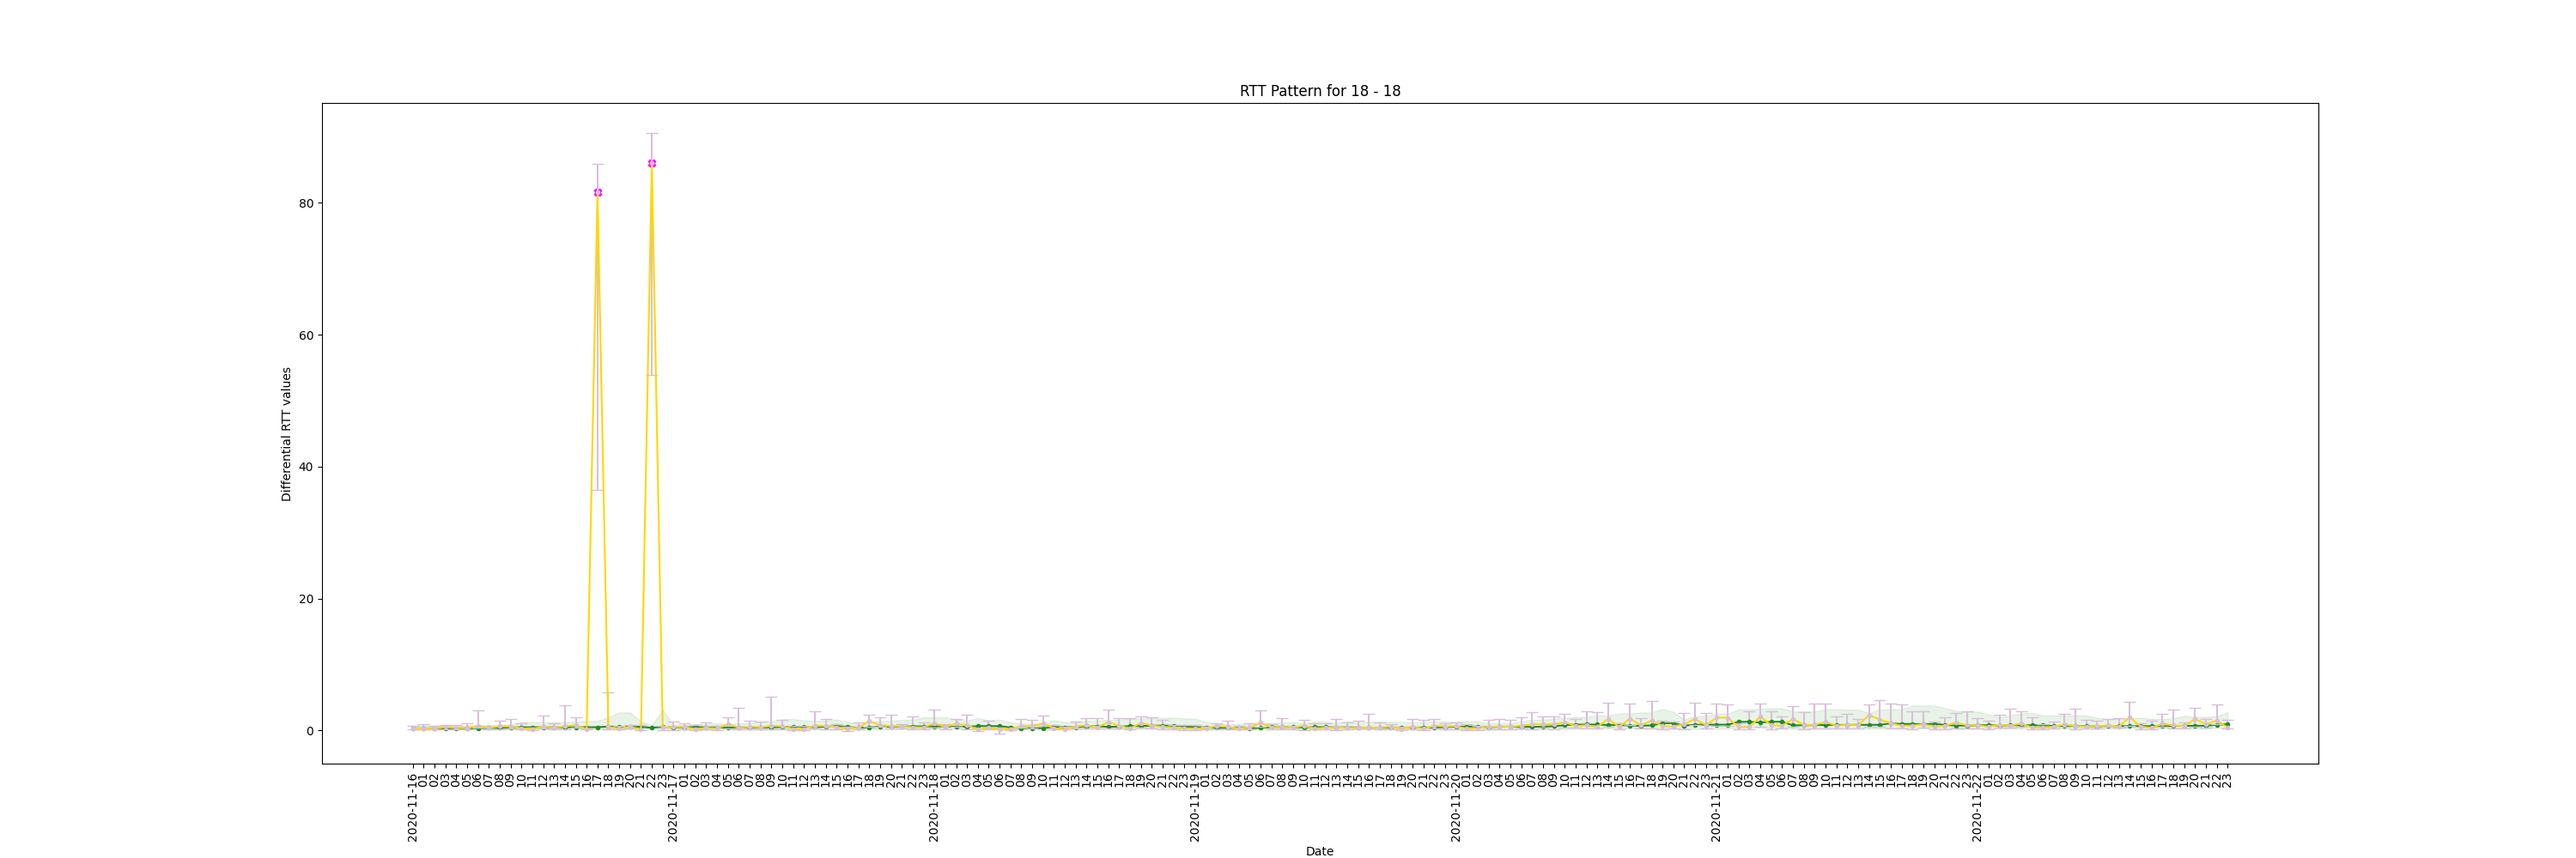
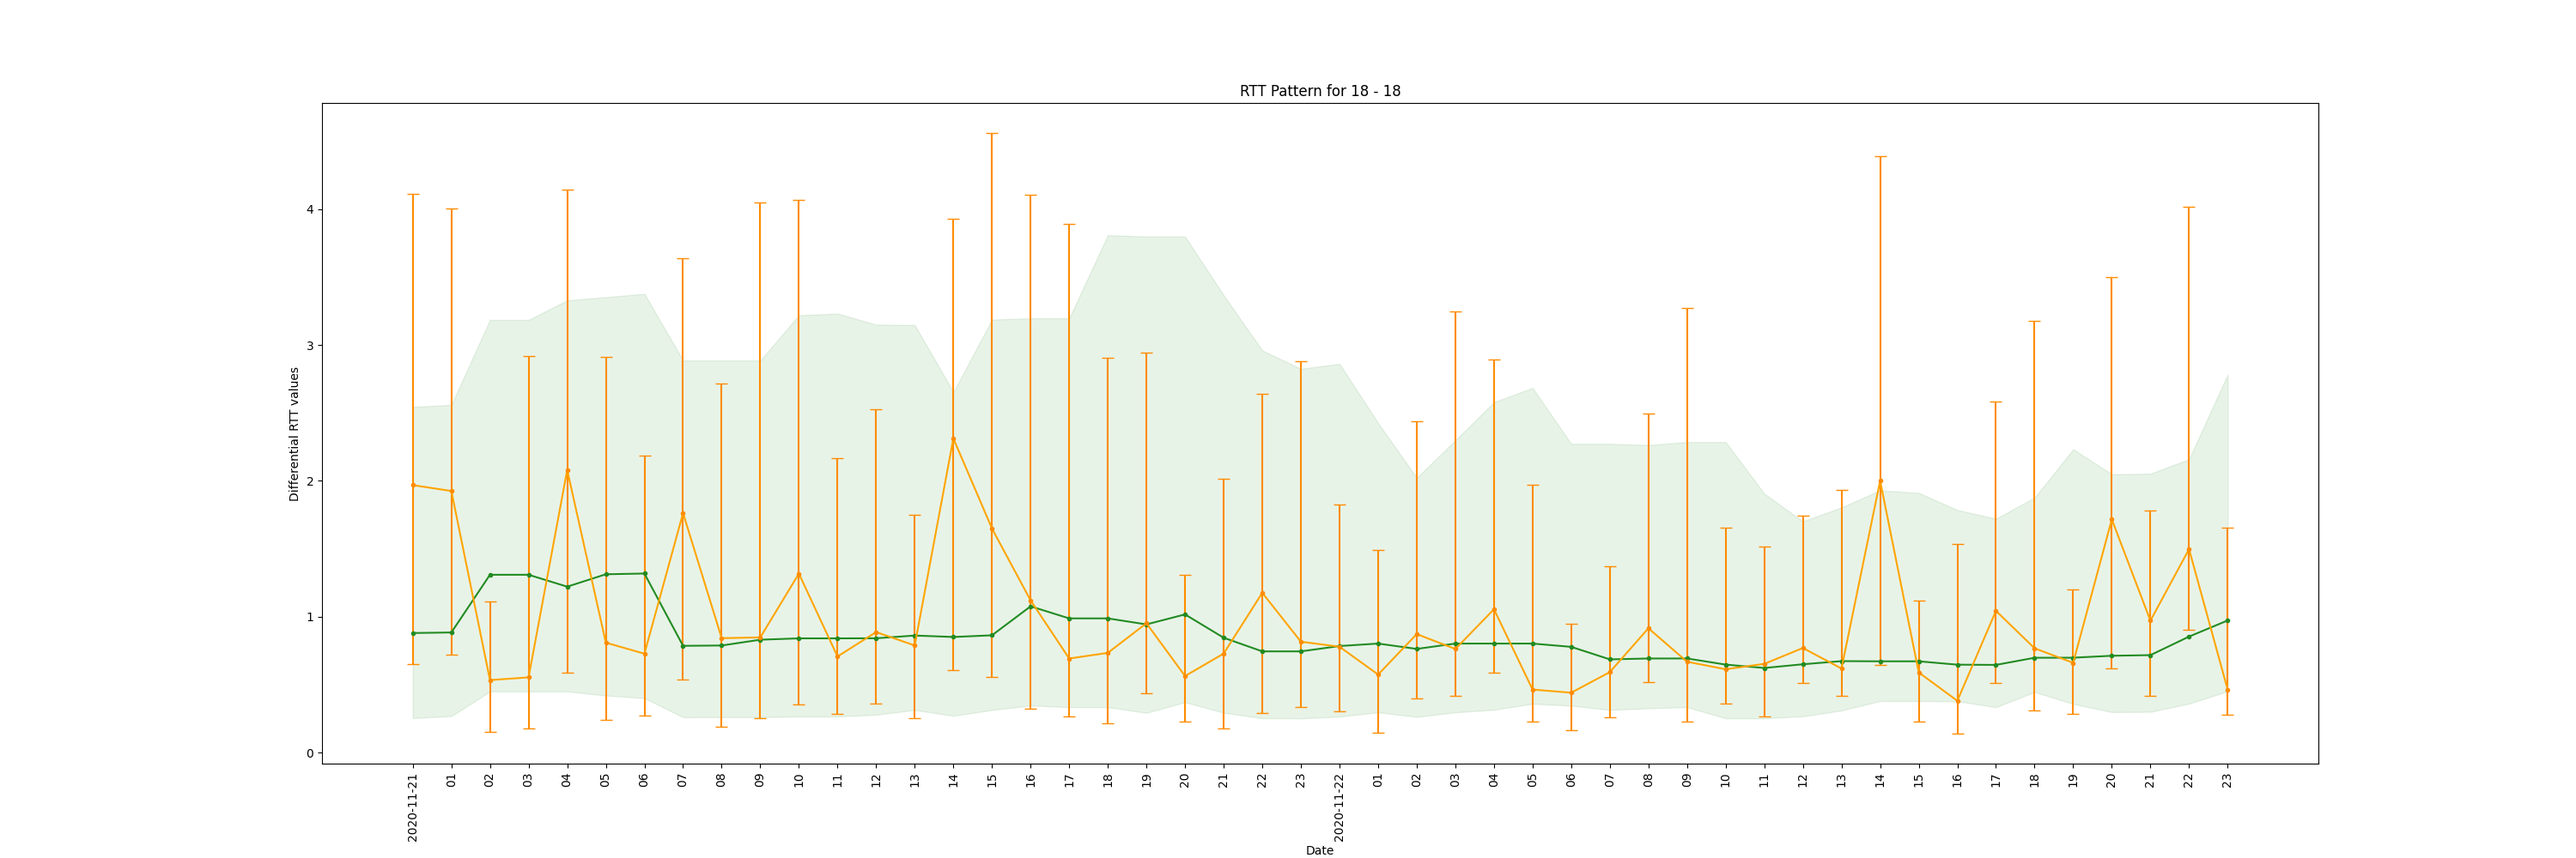
RTT graph formatting

diff --git a/phase3_scripts/rtt_monitoring/rtt_monitoring_graph_sw.py b/phase3_scripts/rtt_monitoring/rtt_monitoring_graph_sw.py
@@ -95,10 +95,10 @@ plt.plot(np.arange(len(date_list)), normal_reference_median, marker ='.', color 
 plt.fill_between(np.arange(len(date_list)), normal_reference_lower, normal_reference_upper, color='forestgreen', alpha=.1)
 
 #Current computation result
-plt.errorbar(np.arange(len(date_list)), rtt_median, yerr=err_list, fmt='.',color='thistle',capsize=5)
-plt.plot(np.arange(len(date_list)), rtt_median, color='gold')
+plt.errorbar(np.arange(len(date_list)), rtt_median, yerr=err_list, fmt='.',color='darkorange',capsize=5)
+plt.plot(np.arange(len(date_list)), rtt_median, color='orange')
 
-plt.scatter(alarm_list, alarm_values, marker='X', color='magenta')
+plt.scatter(alarm_list, alarm_values, marker='X', color='red')
 #for x,y in zip(np.arange(216), rtt_median):
 #    label = y
 #    plt.annotate(label, (x,y), textcoords="offset points", xytext=(0,10), ha='center') 

diff --git a/phase3_scripts/rtt_monitoring/rtt_monitoring_graph_sw_bk.py b/phase3_scripts/rtt_monitoring/rtt_monitoring_graph_sw_bk.py
@@ -98,11 +98,11 @@ plt.plot(np.arange(len(date_list)), normal_reference_median, marker ='.', color=
 
 plt.fill_between(np.arange(len(date_list)), normal_reference_lower, normal_reference_upper, color='forestgreen', alpha=.1)
 
-plt.errorbar(np.arange(len(date_list)), rtt_median, yerr=err_list,fmt='.',color='thistle',capsize=5)
-plt.plot(np.arange(len(date_list)), rtt_median, color='gold') 
+plt.errorbar(np.arange(len(date_list)), rtt_median, yerr=err_list,fmt='.',color='darkorange',capsize=5)
+plt.plot(np.arange(len(date_list)), rtt_median, color='orange') 
 
 
-plt.scatter(alarm_list, alarm_values, marker='X', color='magenta')
+plt.scatter(alarm_list, alarm_values, marker='X', color='red')
 #for x,y in zip(np.arange(216), rtt_median):
 #    label = y
 #    plt.annotate(label, (x,y), textcoords="offset points", xytext=(0,10), ha='center') 
